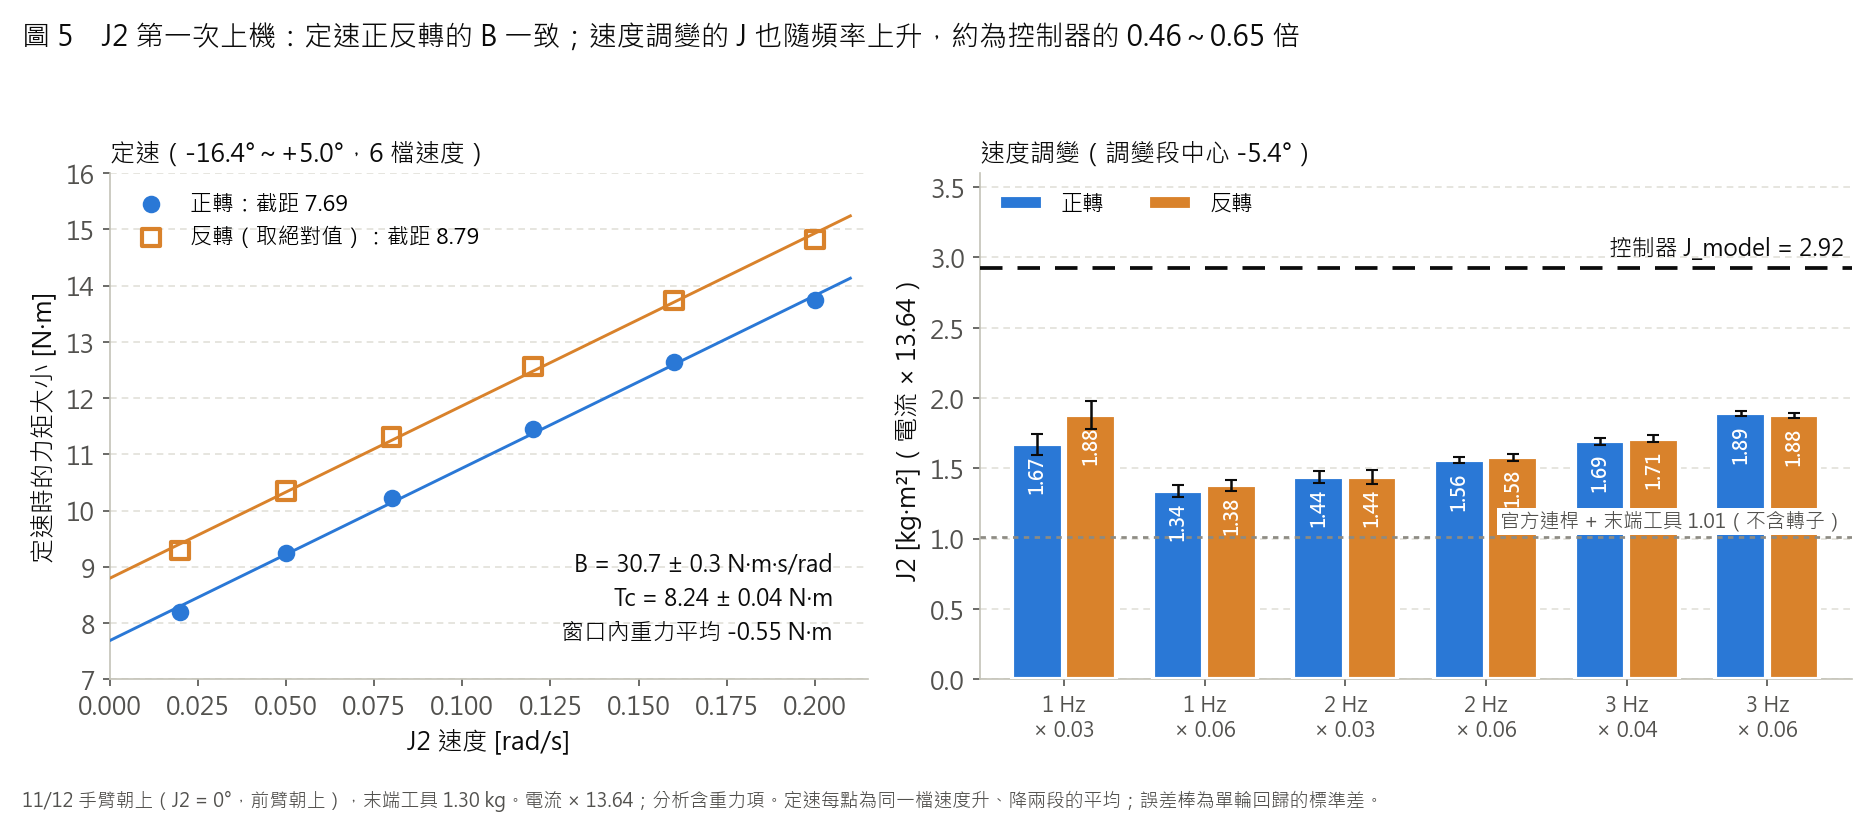
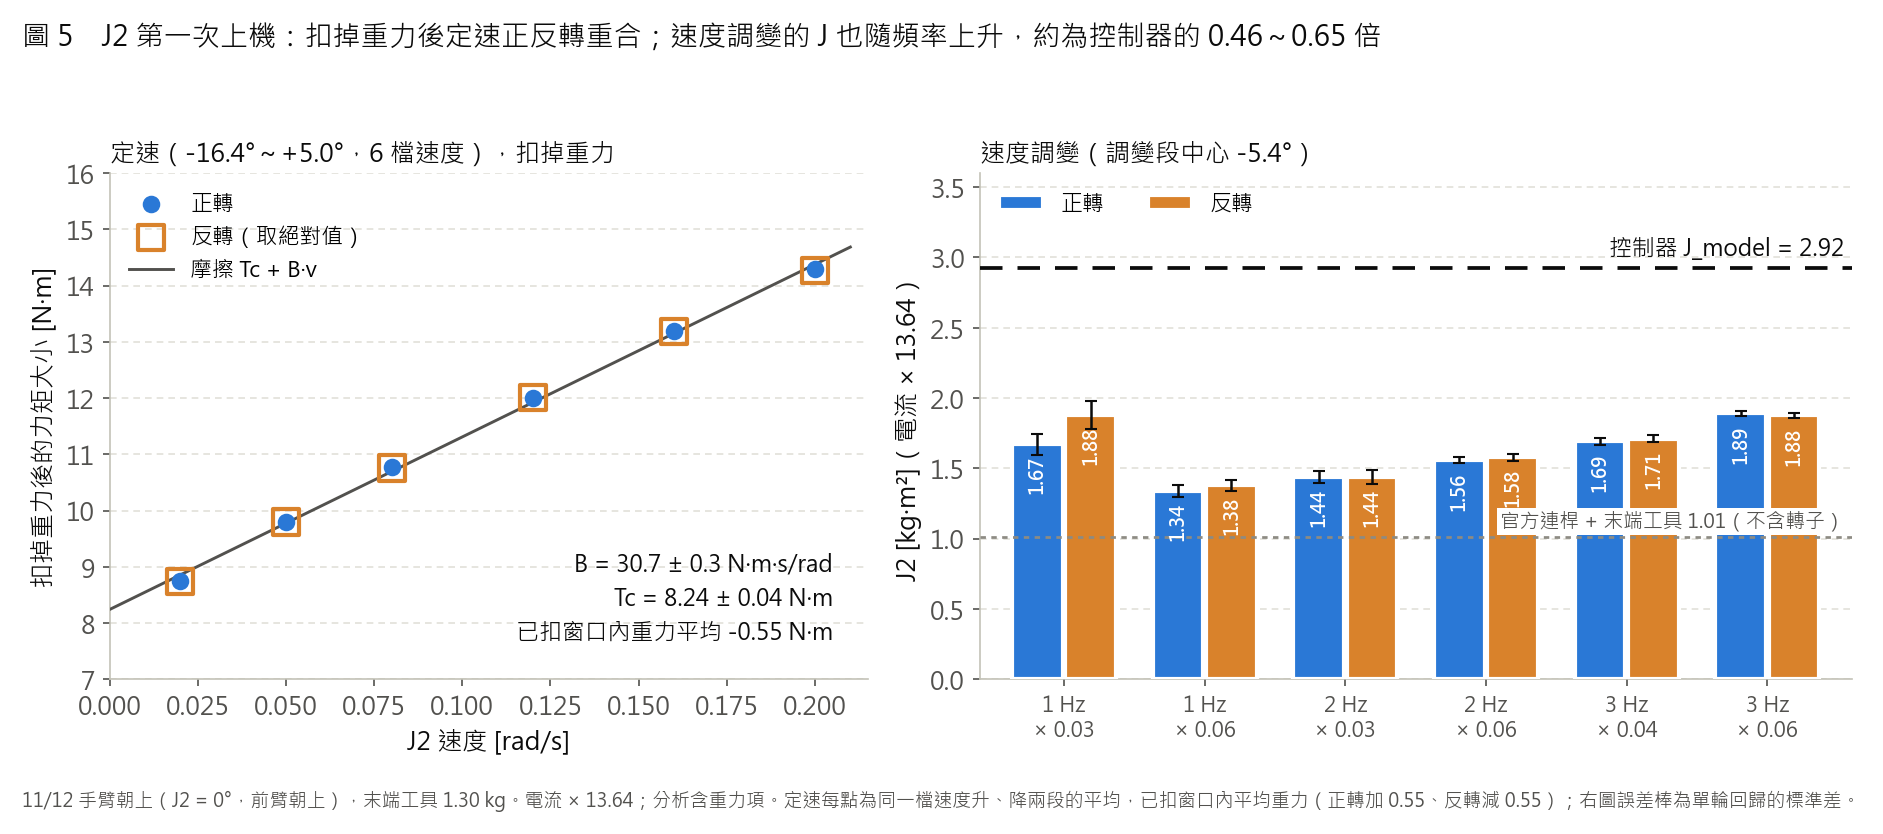
11/18 report fig 5: plot J2 constant-velocity torque with window-mean gravity removed
Forward and reverse now sit on the same Tc + B*v line; the 1.1 N*m
offset was the -0.55 N*m mean gravity, not friction asymmetry.

diff --git a/analysis/1112/report_figs_1118.py b/analysis/1112/report_figs_1118.py
@@ -201,19 +201,21 @@ for line in open(os.path.join(OUT, "j2_1112_log.txt"), encoding="utf-8"):
     elif cur and re.match(r"^\s+\d+\s+0\.\d+\s+\d+", line):
         t = line.split(); seg[cur].append((abs(float(t[4])), abs(float(t[5]))))
 vv = np.linspace(0, 0.21, 20)
-for d, col, sgn, lab, kw in (("pos", BLUE, +1, "正轉", dict(marker="o", s=55, color=BLUE, zorder=4)),
+# 扣掉窗口內的平均重力 H 再畫：正轉 |τ| = Tc + B·v + H，反轉 |τ| = Tc + B·v − H，
+# 所以 |τ| − sgn·H 兩個方向都剩下摩擦 Tc + B·v，應該疊在同一條線上
+for d, col, sgn, lab, kw in (("pos", BLUE, +1, "正轉", dict(marker="o", s=55, color=BLUE, zorder=5)),
                              ("neg", ORANGE, -1, "反轉（取絕對值）",
-                              dict(marker="s", s=70, facecolors="none", edgecolors=ORANGE, linewidths=2, zorder=5))):
+                              dict(marker="s", s=150, facecolors="none", edgecolors=ORANGE, linewidths=2, zorder=4))):
     a = np.array(seg[d]); assert len(a) == 12, (d, len(a))
     v = np.round(a[:, 0], 2); vs = np.unique(v)
-    ax.scatter(vs, [a[v == x, 1].mean() for x in vs], label=f"{lab}：截距 {c2['Tc'] + sgn * c2['H']:.2f}", **kw)
-    ax.plot(vv, c2["Tc"] + sgn * c2["H"] + c2["B"] * vv, color=col, lw=1.4, zorder=3)
+    ax.scatter(vs, [a[v == x, 1].mean() - sgn * c2["H"] for x in vs], label=lab, **kw)
+ax.plot(vv, c2["Tc"] + c2["B"] * vv, color=INK2, lw=1.4, zorder=3, label="摩擦 Tc + B·v")
 ax.text(0.205, 7.6, f"B = {c2['B']:.1f} ± {c2['sd_B']:.1f} N·m·s/rad\nTc = {c2['Tc']:.2f} ± {c2['sd_Tc']:.2f} N·m\n"
-        f"窗口內重力平均 {c2['H']:+.2f} N·m", ha="right", va="bottom", fontsize=11, color=INK, linespacing=1.5)
+        f"已扣窗口內重力平均 {c2['H']:+.2f} N·m", ha="right", va="bottom", fontsize=11, color=INK, linespacing=1.5)
 ax.legend(loc="upper left", frameon=False, fontsize=10.5)
 ax.set_xlim(0, 0.215); ax.set_ylim(7, 16)
-ax.set_xlabel("J2 速度 [rad/s]"); ax.set_ylabel("定速時的力矩大小 [N·m]")
-ax.set_title("定速（-16.4°～+5.0°，6 檔速度）", loc="left", fontsize=12, color=INK)
+ax.set_xlabel("J2 速度 [rad/s]"); ax.set_ylabel("扣掉重力後的力矩大小 [N·m]")
+ax.set_title("定速（-16.4°～+5.0°，6 檔速度），扣掉重力", loc="left", fontsize=12, color=INK)
 style(ax)
 ax = axs[1]
 vm = J2["velmod"]
@@ -240,10 +242,11 @@ ax.set_xlim(-0.6, 5.6); ax.set_ylim(0, 3.6)
 ax.set_ylabel("J2 [kg·m²]（電流 × 13.64）")
 ax.set_title("速度調變（調變段中心 -5.4°）", loc="left", fontsize=12, color=INK)
 style(ax)
-fig.suptitle("圖 5　J2 第一次上機：定速正反轉的 B 一致；速度調變的 J 也隨頻率上升，約為控制器的 0.46～0.65 倍",
+fig.suptitle("圖 5　J2 第一次上機：扣掉重力後定速正反轉重合；速度調變的 J 也隨頻率上升，約為控制器的 0.46～0.65 倍",
              x=0.01, ha="left", fontsize=13.5, color=INK)
 fig.text(0.01, 0.005, "11/12 手臂朝上（J2 = 0°，前臂朝上），末端工具 1.30 kg。電流 × 13.64；分析含重力項。"
-         "定速每點為同一檔速度升、降兩段的平均；誤差棒為單輪回歸的標準差。", ha="left", va="bottom", fontsize=9, color=INK2)
+         "定速每點為同一檔速度升、降兩段的平均，已扣窗口內平均重力（正轉加 0.55、反轉減 0.55）；"
+         "右圖誤差棒為單輪回歸的標準差。", ha="left", va="bottom", fontsize=9, color=INK2)
 fig.tight_layout(rect=(0, 0.04, 1, 0.94))
 f5 = save(fig, "w1118_fig5_j2.png")
 
